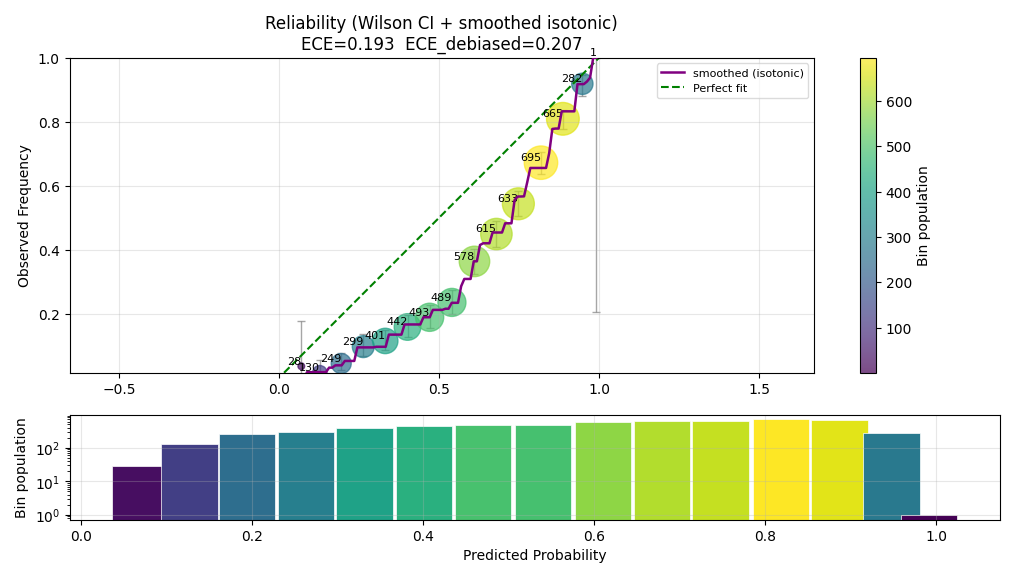
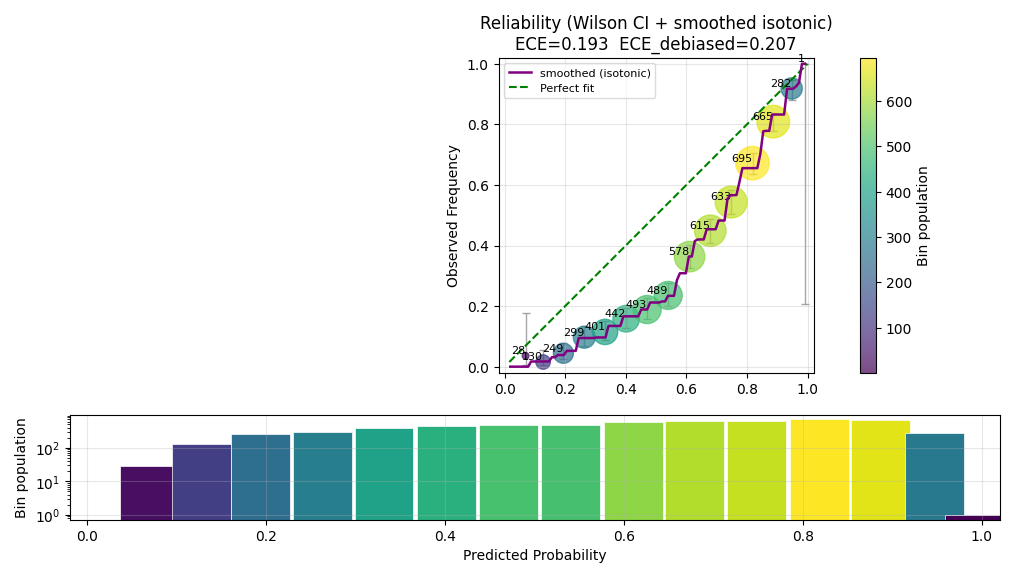
Pin tight probability range on reliability scatter to stop x-axis over-padding
The reliability scatter set equal aspect via set_aspect("equal", "datalim"), which at draw time discarded the data-driven set_xlim to satisfy the square aspect on the wide calibration panel, expanding x to ~[-0.5, 1.5] and wasting ~40% of the width though predicted probability is on [0, 1].

Add optional xlim/ylim to ScatterPanelSpec (xlim to HistogramPanelSpec), honored by both renderers (default None = no change elsewhere). The calibration spec pins xlim=ylim=(-0.02, 1.02) on the scatter and xlim on the shared histogram; the equal-aspect square is now kept via "box" so large bubble markers no longer drive autoscale past the data.

diff --git a/tests/test_calibration_plot_layout.py b/tests/test_calibration_plot_layout.py
@@ -168,6 +168,28 @@ class TestAutoYscaleHistogram:
         )
         assert hist_ax.get_yscale() == "linear"
 
+    def test_reliability_prob_axis_tight_after_draw(self, binned_data, tmp_path):
+        from mlframe.reporting.charts.calibration import _PROB_AXIS_RANGE, build_calibration_spec
+        from mlframe.reporting.renderers.matplotlib import MatplotlibRenderer
+        from mlframe.reporting.spec import HistogramPanelSpec, ScatterPanelSpec
+
+        fp, ft, h = binned_data
+        spec = build_calibration_spec(fp, ft, h, show_prob_histogram=True)
+        scatter = spec.panels[0][0]
+        assert isinstance(scatter, ScatterPanelSpec)
+        assert scatter.xlim == _PROB_AXIS_RANGE and scatter.ylim == _PROB_AXIS_RANGE
+        hist = spec.panels[1][0]
+        assert isinstance(hist, HistogramPanelSpec) and hist.xlim == _PROB_AXIS_RANGE
+
+        fig = MatplotlibRenderer().render(spec)
+        # savefig forces a canvas draw; the aspect-driven re-autoscale used to widen x to ~[-0.5, 1.5] here.
+        fig.savefig(str(tmp_path / "reliability.png"), dpi=60)
+        scatter_ax = next(ax for ax in fig.axes if ax.get_ylabel() == "Observed Frequency")
+        lo, hi = scatter_ax.get_xlim()
+        assert -0.05 <= lo and hi <= 1.05, f"reliability x-axis over-padded: ({lo}, {hi})"
+        ylo, yhi = scatter_ax.get_ylim()
+        assert -0.05 <= ylo and yhi <= 1.05, f"reliability y-axis over-padded: ({ylo}, {yhi})"
+
     def test_explicit_log_overrides_auto(self, uniform_hits, tmp_path):
         fp, ft, h = uniform_hits
         plot_file = str(tmp_path / "force_log.png")

diff --git a/src/mlframe/reporting/renderers/matplotlib.py b/src/mlframe/reporting/renderers/matplotlib.py
@@ -267,9 +267,18 @@ class MatplotlibRenderer:
             lo = float(min(np.min(x), np.min(y)))
             hi = float(max(np.max(x), np.max(y)))
             ax.plot([lo, hi], [lo, hi], "g--", label="Perfect fit")
-            ax.set_xlim(lo, hi)
-            ax.set_ylim(lo, hi)
-            ax.set_aspect("equal", "datalim")
+            if p.xlim is not None or p.ylim is not None:
+                # Explicit limits given: "datalim" would discard set_xlim to satisfy equal aspect (large bubble
+                # markers then drive x far past the data); "box" keeps the fixed limits and squares via the box.
+                ax.set_aspect("equal", "box")
+            else:
+                ax.set_xlim(lo, hi)
+                ax.set_ylim(lo, hi)
+                ax.set_aspect("equal", "datalim")
+        if p.xlim is not None:
+            ax.set_xlim(*p.xlim)
+        if p.ylim is not None:
+            ax.set_ylim(*p.ylim)
 
         if p.inline_labels:
             for lx, ly, txt in p.inline_labels:
@@ -345,6 +354,8 @@ class MatplotlibRenderer:
         ax.set_ylabel(p.ylabel)
         ax.set_title(p.title)
         ax.set_yscale(p.yscale)
+        if p.xlim is not None:
+            ax.set_xlim(*p.xlim)
         if p.grid:
             ax.grid(True, alpha=0.3)
 

diff --git a/src/mlframe/reporting/renderers/plotly.py b/src/mlframe/reporting/renderers/plotly.py
@@ -373,9 +373,16 @@ class PlotlyRenderer:
                            name="Perfect fit", showlegend=True),
                 row=row, col=col,
             )
+            y_range = list(p.ylim) if p.ylim is not None else [lo, hi]
+            x_range = list(p.xlim) if p.xlim is not None else [lo, hi]
             fig.update_yaxes(scaleanchor=_axis_ref(fig, row, col), scaleratio=1.0,
-                             range=[lo, hi], row=row, col=col)
-            fig.update_xaxes(range=[lo, hi], row=row, col=col)
+                             range=y_range, row=row, col=col)
+            fig.update_xaxes(range=x_range, row=row, col=col)
+        else:
+            if p.xlim is not None:
+                fig.update_xaxes(range=list(p.xlim), row=row, col=col)
+            if p.ylim is not None:
+                fig.update_yaxes(range=list(p.ylim), row=row, col=col)
 
         fig.update_xaxes(title_text=p.xlabel, row=row, col=col, showgrid=p.grid)
         fig.update_yaxes(title_text=p.ylabel, row=row, col=col, showgrid=p.grid)
@@ -453,6 +460,8 @@ class PlotlyRenderer:
                     row=row, col=col,
                 )
 
+        if p.xlim is not None:
+            fig.update_xaxes(range=list(p.xlim), row=row, col=col)
         fig.update_xaxes(title_text=p.xlabel, row=row, col=col, showgrid=p.grid)
         fig.update_yaxes(title_text=p.ylabel, row=row, col=col, showgrid=p.grid,
                          type="log" if p.yscale == "log" else "linear")

diff --git a/src/mlframe/reporting/charts/calibration.py b/src/mlframe/reporting/charts/calibration.py
@@ -38,6 +38,8 @@ _SMOOTHED_FIT_MAX_ROWS: int = 100_000
 _SMOOTHED_GRID_POINTS: int = 100
 # Below this many finite (score, label) rows the smoothed map is too noisy to be meaningful -> skip the overlay.
 _SMOOTHED_MIN_ROWS: int = 50
+# Tight probability-axis range for the reliability scatter / shared histogram: a hair past [0, 1] for marker edges.
+_PROB_AXIS_RANGE: Tuple[float, float] = (-0.02, 1.02)
 
 
 def smoothed_reliability_curve(
@@ -337,6 +339,10 @@ def build_calibration_spec(
         colorbar_label=colorbar_label,
         y_err=y_err,
         overlay_line=overlay_line,
+        # Both axes are probabilities on [0, 1]; pin a tight range so the population-sized bubble markers cannot drive
+        # autoscale past the data and waste horizontal width (equal aspect is then squared via the box, not the data).
+        xlim=_PROB_AXIS_RANGE,
+        ylim=_PROB_AXIS_RANGE,
     )
 
     resolved_yscale = _resolve_yscale(yscale, hits)
@@ -358,6 +364,7 @@ def build_calibration_spec(
         ylabel=label_histogram,
         yscale=resolved_yscale if resolved_yscale in ("linear", "log") else "linear",
         density=False,
+        xlim=_PROB_AXIS_RANGE,  # share the scatter's probability range so the populations line up under their bins
     )
 
     return FigureSpec(

diff --git a/src/mlframe/reporting/spec.py b/src/mlframe/reporting/spec.py
@@ -67,6 +67,11 @@ class ScatterPanelSpec:
     # Precomputed line overlay drawn on the same axes as the scatter (e.g. a binning-free smoothed reliability
     # curve over the binned bubbles): ``(x_grid, y_grid, label)``. Additive; the caller supplies both arrays.
     overlay_line: Optional[Tuple[np.ndarray, np.ndarray, str]] = None
+    # Explicit axis limits ``(lo, hi)``. When set they override the data-driven limits a perfect-fit panel computes;
+    # the equal-aspect square is then kept by adjusting the box (not the data limits) so large bubble markers cannot
+    # drive matplotlib's autoscale past the data range (the reliability scatter pins a tight probability range here).
+    xlim: Optional[Tuple[float, float]] = None
+    ylim: Optional[Tuple[float, float]] = None
 
 
 @dataclass(frozen=True)
@@ -97,6 +102,8 @@ class HistogramPanelSpec:
     # centers instead of computing histogram bins.
     bin_centers: Optional[np.ndarray] = None
     bin_width: Optional[float] = None  # required when bin_centers given
+    # Explicit x-axis range ``(lo, hi)``; lets a shared-x calibration histogram align to the scatter's probability range.
+    xlim: Optional[Tuple[float, float]] = None
 
 
 @dataclass(frozen=True)